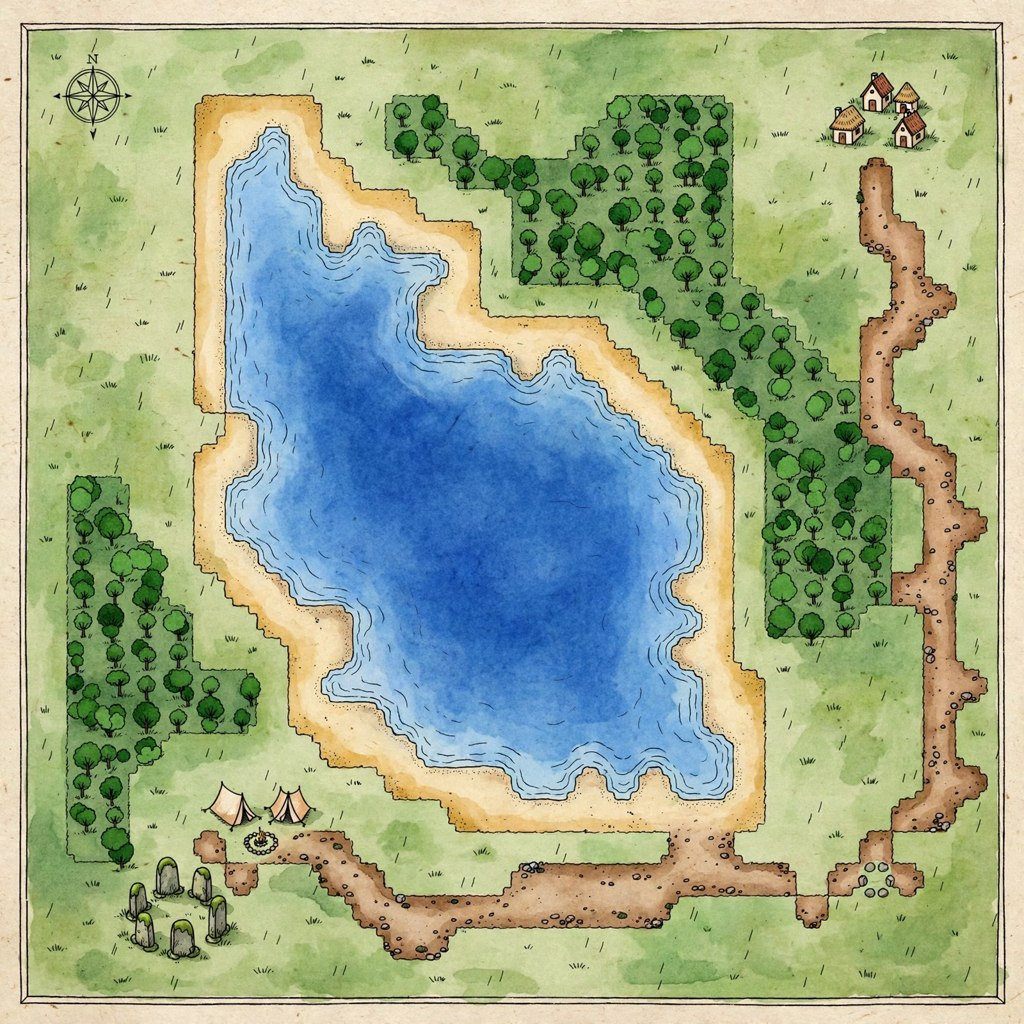
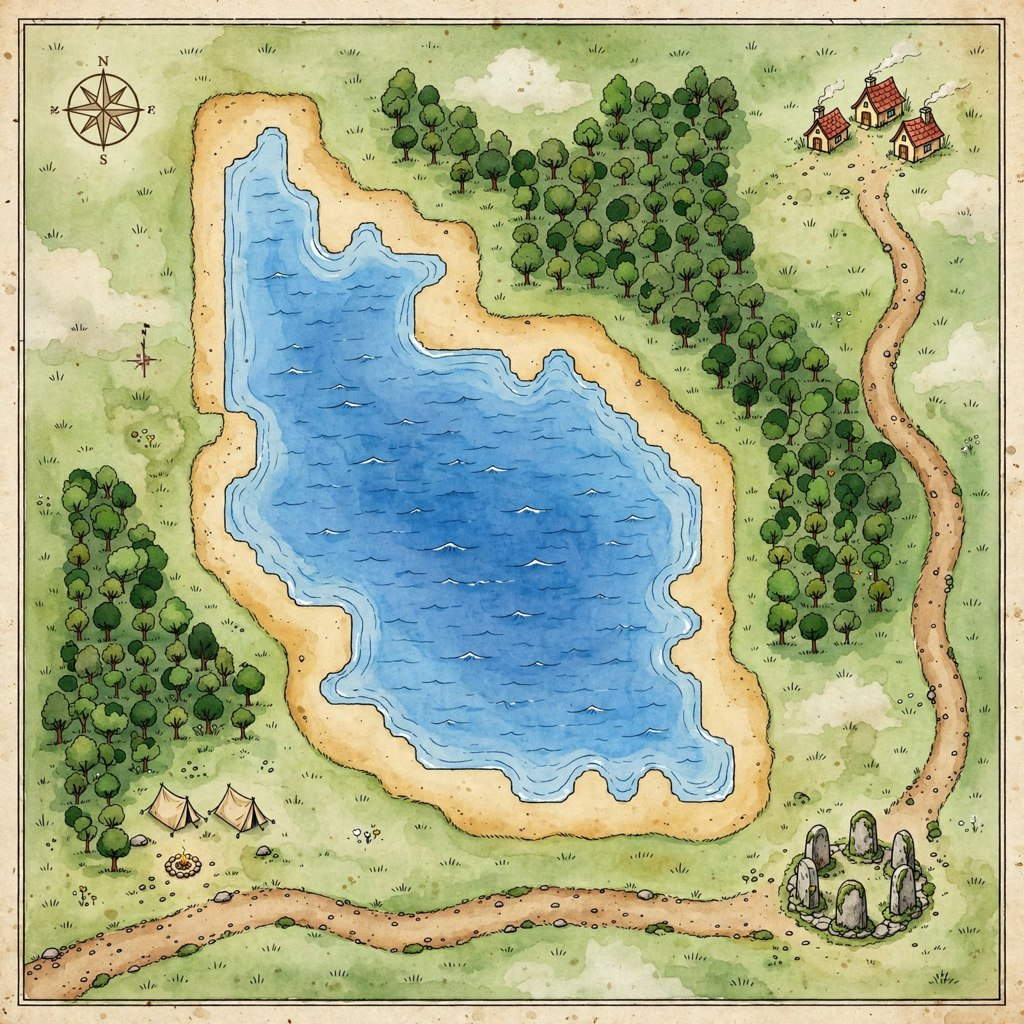
Fix fantasy map prompt: redraw outlines in one flowing stroke (beach ribbon, billowing woods, notch-free road); update tested example

diff --git a/wfc-level-generator/PROMPTS.md b/wfc-level-generator/PROMPTS.md
@@ -10,28 +10,37 @@ Attach the map PNG the tool wrote (`map_v5.png` or your own `--out` name)
 as the input image, then use this prompt exactly:
 
 ```text
-Redraw this flat game map as a hand-drawn fantasy world map, keeping the geography EXACTLY the same. Same square canvas, same top-down view. Every coastline, lake shape, forest blob, and the full route of the brown path must stay in the same place and keep the same shape. Do not add or remove any land, water, forest, or path, and do not add rivers, roads, mountains, or islands that are not in the source map.
+Redraw this flat game map as a hand-drawn fantasy world map. Keep the same geography: same square canvas, same top-down view, and the lake, the forests, the clearings, and the path stay in the same places, at the same sizes, covering the same areas, with the path following the same route between the same three clearings. Do not add or remove any land, water, forest, or path, and do not add rivers, roads, mountains, or islands that are not in the source map.
 
-Style: ink and watercolor on warm parchment, like a storybook atlas plate. Water: layered blue washes, darker in the deep center and pale at the edges, with a soft sandy beach rim following the shore exactly, plus a few tiny hand-drawn wave marks. Forest: each dark green area becomes a dense cluster of small individually drawn round trees with ink outlines. Grassland: a soft green watercolor wash with subtle paper texture and a few tiny grass tufts, no grid lines. The brown path becomes a winding dirt road with soft edges and occasional small stones, following the exact route of the original. The white ring clearing becomes a tiny campsite with two small tents. The orange X clearing becomes a small village of three tiny houses with red roofs. The grey stone circle becomes a ring of mossy standing stones.
+The source is drawn on a square pixel grid, so every outline steps and zigzags. Redraw every outline as if tracing it with a soft brush in one continuous flowing stroke. Round off every corner. There are no right angles and no straight segments anywhere except the map border itself, and no visible pixels or grid steps. The shapes stay recognizably the same map, just drawn the way a cartographer would draw them by hand.
+
+Style: ink and watercolor on warm parchment, like a storybook atlas plate. Water: layered blue washes, darker in the deep center and pale at the edges, plus a few tiny hand-drawn wave marks. The sandy beach is a smooth ribbon of even width all the way around the lake, both of its edges flowing curves. Forest: each dark green area becomes a dense cluster of small individually drawn round trees with ink outlines, and the outline of each woodland billows softly like treetops seen from above, with no straight edges. Grassland: a soft green watercolor wash with subtle paper texture and a few tiny grass tufts. The brown path becomes a smooth, gently curving dirt road with soft edges and occasional small stones, following the exact route of the original, with no notches or steps in its sides. The white ring clearing becomes a tiny campsite with two small tents. The orange X clearing becomes a small village of three tiny houses with red roofs. The grey stone circle becomes a ring of mossy standing stones.
 
 Finish with a thin ink border around the map and one small compass rose in an empty grass corner. No text, no labels, no legend, no UI elements. The result must still read clearly as the same map, just drawn as a fantasy world.
 ```
 
-Tested 2026-11-26 on the example keeper (seed 14), result in
-`examples/fantasy_restyle.jpg`. Verdict: geography held - same lake, same
-shores, same forest blobs, same path route, markers converted as asked
-(campsite at spawn, village at camp, standing stones at the objective),
-compass rose and border added, no text. Two honest nits: forest edges
-keep some of the source's pixel blockiness, and the model added one small
-extra standing-stone cluster near the campsite. Check any restyle against
-the source grid before using it: if the geography moved, regenerate,
-do not patch by hand.
+Why the smoothing paragraph is worded that way: the first tested version
+said "keep every outline exactly the same", and the model faithfully
+copied the pixel steps - blocky shores, rectangular forests, a notched
+road. Naming the fix per element (flowing coastline, even beach ribbon
+with two smooth edges, billowing woodland outline, road with no notches)
+is what actually melted the grid away. Geography is locked by area,
+place, and route, not by outline.
 
-Variants: swap the style paragraph for "flat vector storybook style,
-bold shapes, no texture" for a cleaner game-ready look, or "aged pirate
-chart, sepia ink on stained parchment, everything in brown line work"
-for a handout prop. Keep the first paragraph (geography lock) and the
-marker sentences unchanged in every variant.
+Tested 2026-11-26 on the example keeper (seed 14), result in
+`examples/fantasy_restyle.jpg`. Verdict: geography held - same lake,
+same forests, same path route, markers converted as asked (campsite at
+spawn, village at camp, standing stones at the objective) - and the
+outlines are fully hand-drawn smooth. One small nit: the model drew a
+second tiny compass rose mid-map; harmless, and a regeneration or a
+crop removes it. Check any restyle against the source grid before using
+it: if the geography moved, regenerate, do not patch by hand.
+
+Variants: swap the style paragraph's opening for "flat vector storybook
+style, bold shapes, no texture" for a cleaner game-ready look, or "aged
+pirate chart, sepia ink on stained parchment, everything in brown line
+work" for a handout prop. Keep the geography paragraph, the smoothing
+paragraph, and the marker sentences unchanged in every variant.
 
 ## 2. Generate a batch of levels and pick the keeper
 

diff --git a/prompts/17-wfc-fantasy-maps.md b/prompts/17-wfc-fantasy-maps.md
@@ -18,33 +18,47 @@ guaranteed in code, plus a hand-drawn fantasy version of the same map.
 >    the keeper's water and sand shares from its JSON.
 > 3. Then turn the keeper into a fantasy map with image generation,
 >    using the keeper PNG as the input image and this prompt exactly:
->    "Redraw this flat game map as a hand-drawn fantasy world map,
->    keeping the geography EXACTLY the same. Same square canvas, same
->    top-down view. Every coastline, lake shape, forest blob, and the
->    full route of the brown path must stay in the same place and keep
->    the same shape. Do not add or remove any land, water, forest, or
->    path, and do not add rivers, roads, mountains, or islands that are
->    not in the source map. Style: ink and watercolor on warm parchment,
->    like a storybook atlas plate. Water: layered blue washes, darker in
->    the deep center and pale at the edges, with a soft sandy beach rim
->    following the shore exactly, plus a few tiny hand-drawn wave marks.
->    Forest: each dark green area becomes a dense cluster of small
->    individually drawn round trees with ink outlines. Grassland: a soft
->    green watercolor wash with subtle paper texture and a few tiny
->    grass tufts, no grid lines. The brown path becomes a winding dirt
->    road with soft edges and occasional small stones, following the
->    exact route of the original. The white ring clearing becomes a
->    tiny campsite with two small tents. The orange X clearing becomes a
->    small village of three tiny houses with red roofs. The grey stone
->    circle becomes a ring of mossy standing stones. Finish with a thin
->    ink border around the map and one small compass rose in an empty
->    grass corner. No text, no labels, no legend, no UI elements. The
->    result must still read clearly as the same map, just drawn as a
->    fantasy world."
+>    "Redraw this flat game map as a hand-drawn fantasy world map. Keep
+>    the same geography: same square canvas, same top-down view, and
+>    the lake, the forests, the clearings, and the path stay in the
+>    same places, at the same sizes, covering the same areas, with the
+>    path following the same route between the same three clearings. Do
+>    not add or remove any land, water, forest, or path, and do not add
+>    rivers, roads, mountains, or islands that are not in the source
+>    map. The source is drawn on a square pixel grid, so every outline
+>    steps and zigzags. Redraw every outline as if tracing it with a
+>    soft brush in one continuous flowing stroke. Round off every
+>    corner. There are no right angles and no straight segments anywhere
+>    except the map border itself, and no visible pixels or grid steps.
+>    The shapes stay recognizably the same map, just drawn the way a
+>    cartographer would draw them by hand. Style: ink and watercolor on
+>    warm parchment, like a storybook atlas plate. Water: layered blue
+>    washes, darker in the deep center and pale at the edges, plus a few
+>    tiny hand-drawn wave marks. The sandy beach is a smooth ribbon of
+>    even width all the way around the lake, both of its edges flowing
+>    curves. Forest: each dark green area becomes a dense cluster of
+>    small individually drawn round trees with ink outlines, and the
+>    outline of each woodland billows softly like treetops seen from
+>    above, with no straight edges. Grassland: a soft green watercolor
+>    wash with subtle paper texture and a few tiny grass tufts. The
+>    brown path becomes a smooth, gently curving dirt road with soft
+>    edges and occasional small stones, following the exact route of the
+>    original, with no notches or steps in its sides. The white ring
+>    clearing becomes a tiny campsite with two small tents. The orange
+>    X clearing becomes a small village of three tiny houses with red
+>    roofs. The grey stone circle becomes a ring of mossy standing
+>    stones. Finish with a thin ink border around the map and one small
+>    compass rose in an empty grass corner. No text, no labels, no
+>    legend, no UI elements. The result must still read clearly as the
+>    same map, just drawn as a fantasy world."
 > 4. Compare the fantasy version against the keeper before showing me:
 >    same lake, same shores, same forest blobs, same path route. If the
 >    geography moved, regenerate it. The JSON/TMX grid stays the source
 >    of truth for gameplay; the fantasy map is the art on top.
 >
-> Tested end to end 2026-11-26: the example keeper and its fantasy
-> restyle are both in `wfc-level-generator/examples/`.
+> The smoothing wording matters: an earlier version that said "keep
+> every outline exactly the same" made the model copy the pixel steps.
+> Locking geography by area, place, and route while ordering every
+> outline redrawn in one flowing stroke is what fixed it. Tested end
+> to end 2026-11-26: the example keeper and its fantasy restyle are
+> both in `wfc-level-generator/examples/`.
